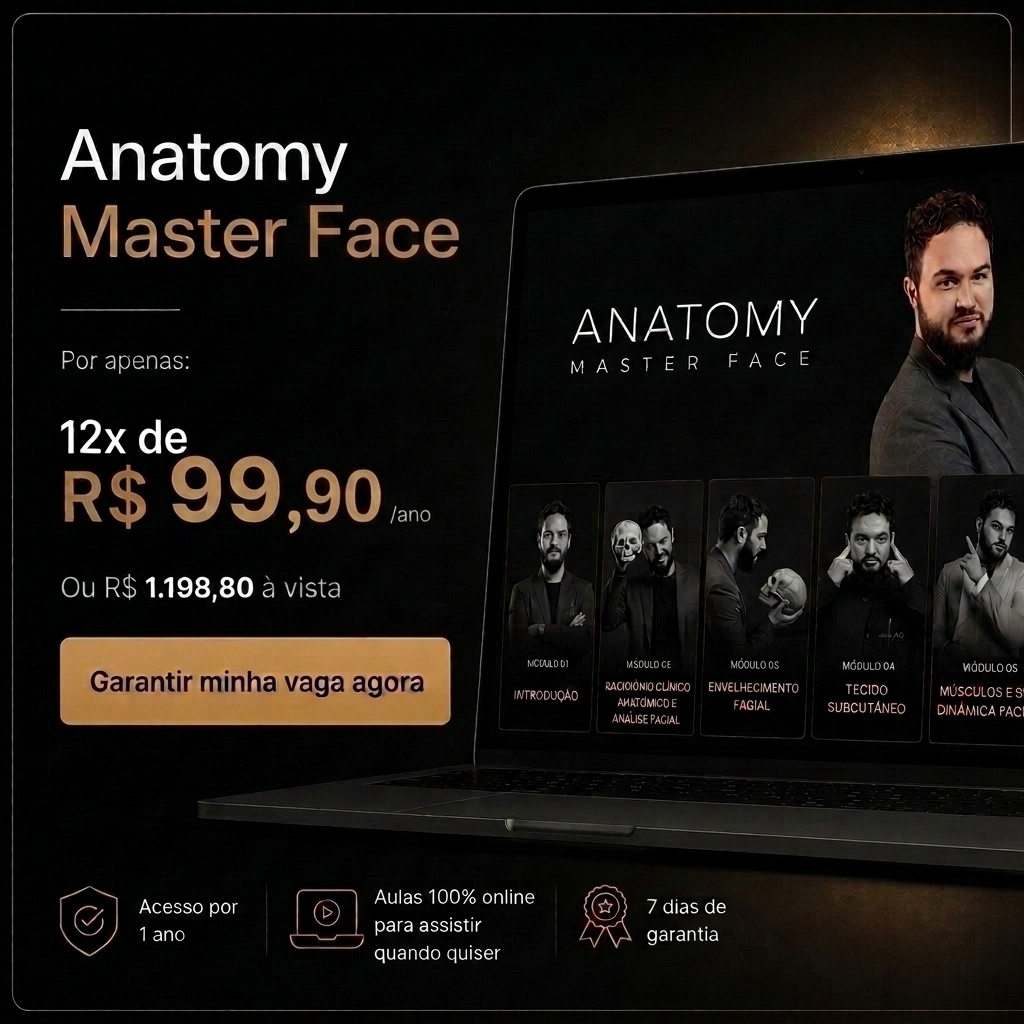
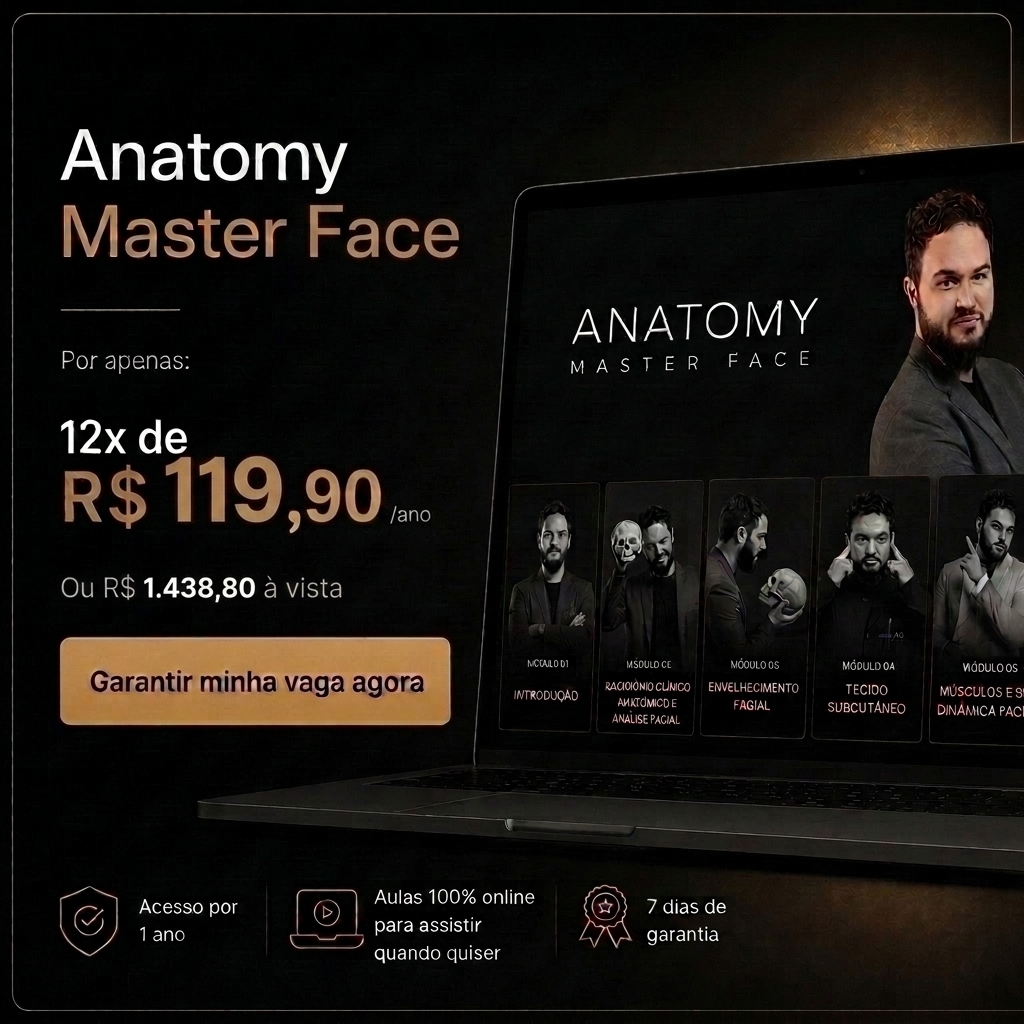
Atualiza preços para 12x de 119,90 ou 1.438,80 à vista, incluindo mockup

Changed region(s): [[0.1562, 0.4375, 0.2812, 0.5312], [0.0625, 0.5625, 0.3438, 0.5938]]

diff --git a/index.html b/index.html
@@ -263,8 +263,8 @@
                     <p class="text-offwhite/80 text-lg mb-8 font-light">Garanta sua vaga no Anatomy Master Face com condição especial.</p>
 
                     <div class="space-y-1 mb-6">
-                        <p class="text-[#BE8C56] font-bold text-4xl sm:text-5xl mb-2">12x de R$ 99,90</p>
-                        <p class="text-sm text-offwhite/80 font-light">ou R$ 1.198,80 à vista</p>
+                        <p class="text-[#BE8C56] font-bold text-4xl sm:text-5xl mb-2">12x de R$ 119,90</p>
+                        <p class="text-sm text-offwhite/80 font-light">ou R$ 1.438,80 à vista</p>
                     </div>
 
                     <a href="https://pay.hotmart.com/H106370647K?off=f5g905d1&checkoutMode=6" class="w-full bg-[#BE8C56] hover:bg-[#a67a4a] text-white font-bold uppercase tracking-wider py-4 rounded-full transition-all duration-300 shadow-[0_0_15px_rgba(190,140,86,0.3)] hover:shadow-[0_0_25px_rgba(190,140,86,0.5)] text-[15px] sm:text-base flex items-center justify-center text-center">
@@ -698,10 +698,10 @@
                         
                         <div class="flex items-baseline justify-center md:justify-start text-[#BE8C56] mb-2 font-bold">
                             <span class="text-3xl lg:text-4xl mr-2">12x</span>
-                            <span class="text-6xl lg:text-7xl">99</span>
+                            <span class="text-6xl lg:text-7xl">119</span>
                             <span class="text-3xl lg:text-4xl">,90</span>
                         </div>
-                        <p class="text-gray-400 text-sm mb-8 font-medium">ou R$ 1.198,80 à vista</p>
+                        <p class="text-gray-400 text-sm mb-8 font-medium">ou R$ 1.438,80 à vista</p>
 
                         <a href="https://pay.hotmart.com/H106370647K?off=f5g905d1&checkoutMode=6" class="w-full inline-flex items-center justify-center bg-[#BE8C56] hover:bg-[#a67a4a] text-white font-bold uppercase tracking-wider py-5 px-8 rounded-full transition-all duration-300 shadow-[0_0_15px_rgba(190,140,86,0.3)] hover:shadow-[0_0_25px_rgba(190,140,86,0.5)] text-lg lg:text-xl text-center">
                             Quero garantir minha condição especial